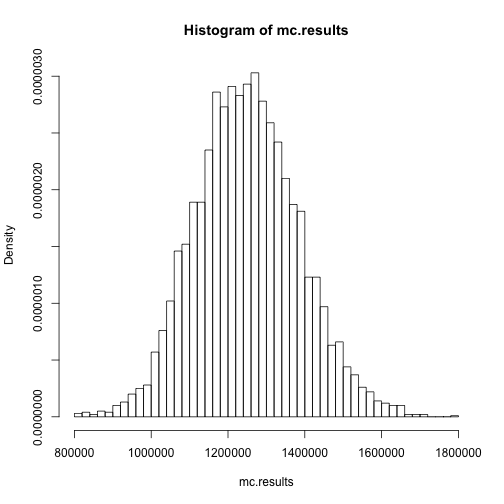
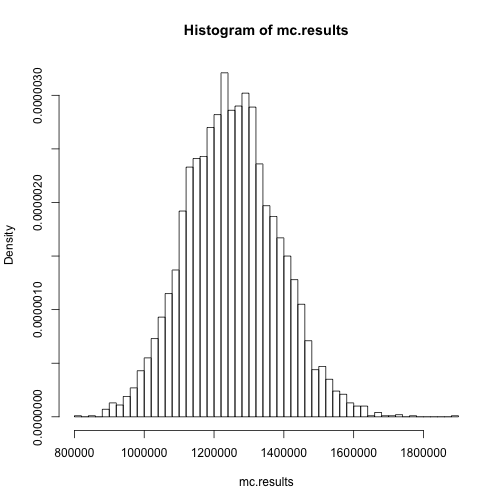
Added Monte Carlo-based sensitivity analysis (Figure 4-5)

diff --git a/project-valuation.html b/project-valuation.html
@@ -474,7 +474,7 @@ alt.vars
 
 <!-- html table generated in R 2.15.2 by xtable 1.7-0 package -->
 
-<!-- Wed Apr 10 23:35:49 2013 -->
+<!-- Wed May 22 22:55:29 2013 -->
 
 <TABLE border=1>
 <TR> <TH>  </TH> <TH> default </TH> <TH> var.name </TH>  </TR>
@@ -503,7 +503,7 @@ inputs$high &lt;- inputs$default + inputs$uncertainty.abs
 
 <!-- html table generated in R 2.15.2 by xtable 1.7-0 package -->
 
-<!-- Wed Apr 10 23:35:49 2013 -->
+<!-- Wed May 22 22:55:29 2013 -->
 
 <TABLE border=1>
 <TR> <TH>  </TH> <TH> default </TH> <TH> var.name </TH> <TH> uncertainty.pct </TH> <TH> uncertainty.abs </TH> <TH> low </TH> <TH> high </TH>  </TR>
@@ -558,7 +558,7 @@ varied$contribution.pct &lt;- percentify(varied$contribution)
 
 <!-- html table generated in R 2.15.2 by xtable 1.7-0 package -->
 
-<!-- Wed Apr 10 23:35:49 2013 -->
+<!-- Wed May 22 22:55:29 2013 -->
 
 <TABLE border=1>
 <TR> <TH>  </TH> <TH> .id </TH> <TH> var.name </TH> <TH> uncertainty.abs </TH> <TH> value </TH> <TH> sensitivity </TH> <TH> km </TH> <TH> contribution </TH> <TH> contribution.pct </TH>  </TR>
@@ -610,7 +610,7 @@ print(xtable(varied.b), type = &quot;html&quot;)
 
 <!-- html table generated in R 2.15.2 by xtable 1.7-0 package -->
 
-<!-- Wed Apr 10 23:35:49 2013 -->
+<!-- Wed May 22 22:55:29 2013 -->
 
 <TABLE border=1>
 <TR> <TH>  </TH> <TH> .id </TH> <TH> var.name </TH> <TH> uncertainty.abs </TH> <TH> value </TH> <TH> sensitivity </TH> <TH> km </TH> <TH> contribution </TH> <TH> contribution.pct </TH>  </TR>
@@ -670,7 +670,7 @@ plot(x, y, type = &quot;l&quot;, lwd = 2, col = &quot;red&quot;)
 
 <!-- html table generated in R 2.15.2 by xtable 1.7-0 package -->
 
-<!-- Wed Apr 10 23:35:49 2013 -->
+<!-- Wed May 22 22:55:29 2013 -->
 
 <TABLE border=1>
 <TR> <TH>  </TH> <TH> var.name </TH> <TH> default </TH> <TH> uncertainty.abs </TH>  </TR>
@@ -700,20 +700,20 @@ t.test(mc.results, conf.level = 0.95)
 ##  One Sample t-test
 ## 
 ## data:  mc.results 
-## t = 659, df = 4999, p-value &lt; 2.2e-16
+## t = 671, df = 4999, p-value &lt; 2.2e-16
 ## alternative hypothesis: true mean is not equal to 0 
 ## 95 percent confidence interval:
-##  1246858 1254299 
+##  1248006 1255320 
 ## sample estimates:
 ## mean of x 
-##   1250578
+##   1251663
 </code></pre>
 
 <pre><code class="r">
 hist(mc.results, freq = FALSE, breaks = 50)
 </code></pre>
 
[2 lines of base64/hex data omitted]
 
 <pre><code class="r">data.frame(stat.desc(mc.results))
 </code></pre>
@@ -722,17 +722,17 @@ hist(mc.results, freq = FALSE, breaks = 50)
 ## nbr.val                  5.000e+03
 ## nbr.null                 0.000e+00
 ## nbr.na                   0.000e+00
-## min                      8.021e+05
-## max                      1.780e+06
-## range                    9.784e+05
-## sum                      6.253e+09
-## median                   1.247e+06
-## mean                     1.251e+06
-## SE.mean                  1.898e+03
-## CI.mean.0.95             3.721e+03
-## var                      1.801e+10
-## std.dev                  1.342e+05
-## coef.var                 1.073e-01
+## min                      8.084e+05
+## max                      1.893e+06
+## range                    1.084e+06
+## sum                      6.258e+09
+## median                   1.249e+06
+## mean                     1.252e+06
+## SE.mean                  1.865e+03
+## CI.mean.0.95             3.657e+03
+## var                      1.740e+10
+## std.dev                  1.319e+05
+## coef.var                 1.054e-01
 </code></pre>
 
 <pre><code class="r">

diff --git a/project-valuation.md b/project-valuation.md
@@ -348,7 +348,7 @@ print(xtable(inputs), type = "html")
 ```
 
 <!-- html table generated in R 2.15.2 by xtable 1.7-0 package -->
-<!-- Wed Apr 10 23:35:49 2013 -->
+<!-- Wed May 22 22:55:29 2013 -->
 <TABLE border=1>
 <TR> <TH>  </TH> <TH> default </TH> <TH> var.name </TH>  </TR>
   <TR> <TD align="right"> on.peak.rate </TD> <TD align="right"> 80.00 </TD> <TD> on.peak.rate </TD> </TR>
@@ -381,7 +381,7 @@ print(xtable(inputs), type = "html")
 ```
 
 <!-- html table generated in R 2.15.2 by xtable 1.7-0 package -->
-<!-- Wed Apr 10 23:35:49 2013 -->
+<!-- Wed May 22 22:55:29 2013 -->
 <TABLE border=1>
 <TR> <TH>  </TH> <TH> default </TH> <TH> var.name </TH> <TH> uncertainty.pct </TH> <TH> uncertainty.abs </TH> <TH> low </TH> <TH> high </TH>  </TR>
   <TR> <TD align="right"> on.peak.rate </TD> <TD align="right"> 80.00 </TD> <TD> on.peak.rate </TD> <TD align="right"> 0.20 </TD> <TD align="right"> 16.00 </TD> <TD align="right"> 64.00 </TD> <TD align="right"> 96.00 </TD> </TR>
@@ -443,7 +443,7 @@ print(xtable(varied), type = "html")
 ```
 
 <!-- html table generated in R 2.15.2 by xtable 1.7-0 package -->
-<!-- Wed Apr 10 23:35:49 2013 -->
+<!-- Wed May 22 22:55:29 2013 -->
 <TABLE border=1>
 <TR> <TH>  </TH> <TH> .id </TH> <TH> var.name </TH> <TH> uncertainty.abs </TH> <TH> value </TH> <TH> sensitivity </TH> <TH> km </TH> <TH> contribution </TH> <TH> contribution.pct </TH>  </TR>
   <TR> <TD align="right"> 1 </TD> <TD>  </TD> <TD> capacity </TD> <TD align="right"> 0.15 </TD> <TD align="right"> 5.00 </TD> <TD align="right"> 210000.00 </TD> <TD align="right"> 992250000.00 </TD> <TD align="right"> 0.01 </TD> <TD>  1.4% </TD> </TR>
@@ -499,7 +499,7 @@ print(xtable(varied.b), type = "html")
 ```
 
 <!-- html table generated in R 2.15.2 by xtable 1.7-0 package -->
-<!-- Wed Apr 10 23:35:49 2013 -->
+<!-- Wed May 22 22:55:29 2013 -->
 <TABLE border=1>
 <TR> <TH>  </TH> <TH> .id </TH> <TH> var.name </TH> <TH> uncertainty.abs </TH> <TH> value </TH> <TH> sensitivity </TH> <TH> km </TH> <TH> contribution </TH> <TH> contribution.pct </TH>  </TR>
   <TR> <TD align="right"> 1 </TD> <TD>  </TD> <TD> capacity </TD> <TD align="right"> 0.15 </TD> <TD align="right"> 5.00 </TD> <TD align="right"> 210000.00 </TD> <TD align="right"> 992250000.00 </TD> <TD align="right"> 0.02 </TD> <TD>  2.5% </TD> </TR>
@@ -568,7 +568,7 @@ print(xtable(inputs[, c("var.name", "default", "uncertainty.abs")]), type = "htm
 ```
 
 <!-- html table generated in R 2.15.2 by xtable 1.7-0 package -->
-<!-- Wed Apr 10 23:35:49 2013 -->
+<!-- Wed May 22 22:55:29 2013 -->
 <TABLE border=1>
 <TR> <TH>  </TH> <TH> var.name </TH> <TH> default </TH> <TH> uncertainty.abs </TH>  </TR>
   <TR> <TD align="right"> on.peak.rate </TD> <TD> on.peak.rate </TD> <TD align="right"> 80.00 </TD> <TD align="right"> 16.00 </TD> </TR>
@@ -600,13 +600,13 @@ t.test(mc.results, conf.level = 0.95)
 ## 	One Sample t-test
 ## 
 ## data:  mc.results 
-## t = 659, df = 4999, p-value < 2.2e-16
+## t = 671, df = 4999, p-value < 2.2e-16
 ## alternative hypothesis: true mean is not equal to 0 
 ## 95 percent confidence interval:
-##  1246858 1254299 
+##  1248006 1255320 
 ## sample estimates:
 ## mean of x 
-##   1250578
+##   1251663
 ```
 
 ```r
@@ -625,17 +625,17 @@ data.frame(stat.desc(mc.results))
 ## nbr.val                  5.000e+03
 ## nbr.null                 0.000e+00
 ## nbr.na                   0.000e+00
-## min                      8.021e+05
-## max                      1.780e+06
-## range                    9.784e+05
-## sum                      6.253e+09
-## median                   1.247e+06
-## mean                     1.251e+06
-## SE.mean                  1.898e+03
-## CI.mean.0.95             3.721e+03
-## var                      1.801e+10
-## std.dev                  1.342e+05
-## coef.var                 1.073e-01
+## min                      8.084e+05
+## max                      1.893e+06
+## range                    1.084e+06
+## sum                      6.258e+09
+## median                   1.249e+06
+## mean                     1.252e+06
+## SE.mean                  1.865e+03
+## CI.mean.0.95             3.657e+03
+## var                      1.740e+10
+## std.dev                  1.319e+05
+## coef.var                 1.054e-01
 ```
 
 ```r
